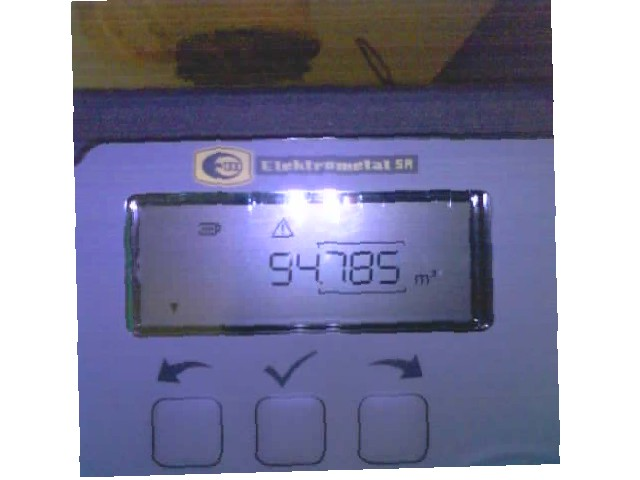
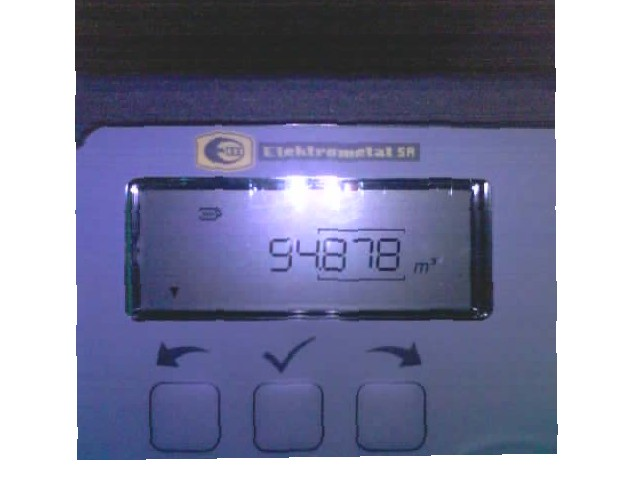
Automatyczna aktualizacja strony i danych

diff --git a/index.html b/index.html
@@ -35,11 +35,11 @@
 <body>
     <div class="container">
         <h1>Bieżący Stan Licznika</h1>
-        <div class="status">Ostatnia aktualizacja danych:<br><span class="timestamp">2026-10-27 05:59:00</span></div>
+        <div class="status">Ostatnia aktualizacja danych:<br><span class="timestamp">2026-10-27 06:04:28</span></div>
         <div class="odczyt">93498 m³</div>
         <div class="uwaga">Ostatni odczyt się nie powiódł, wyświetlana jest poprzednia poprawna wartość.</div>
         <h3>Aktualne zdjęcie z gazomierza:</h3>
-        <img src="img_tmp/alg.jpg?t=1793077140" alt="Zdjęcie licznika">
+        <img src="img_tmp/alg.jpg?t=1793077468" alt="Zdjęcie licznika">
     </div>
 </body>
 </html>
